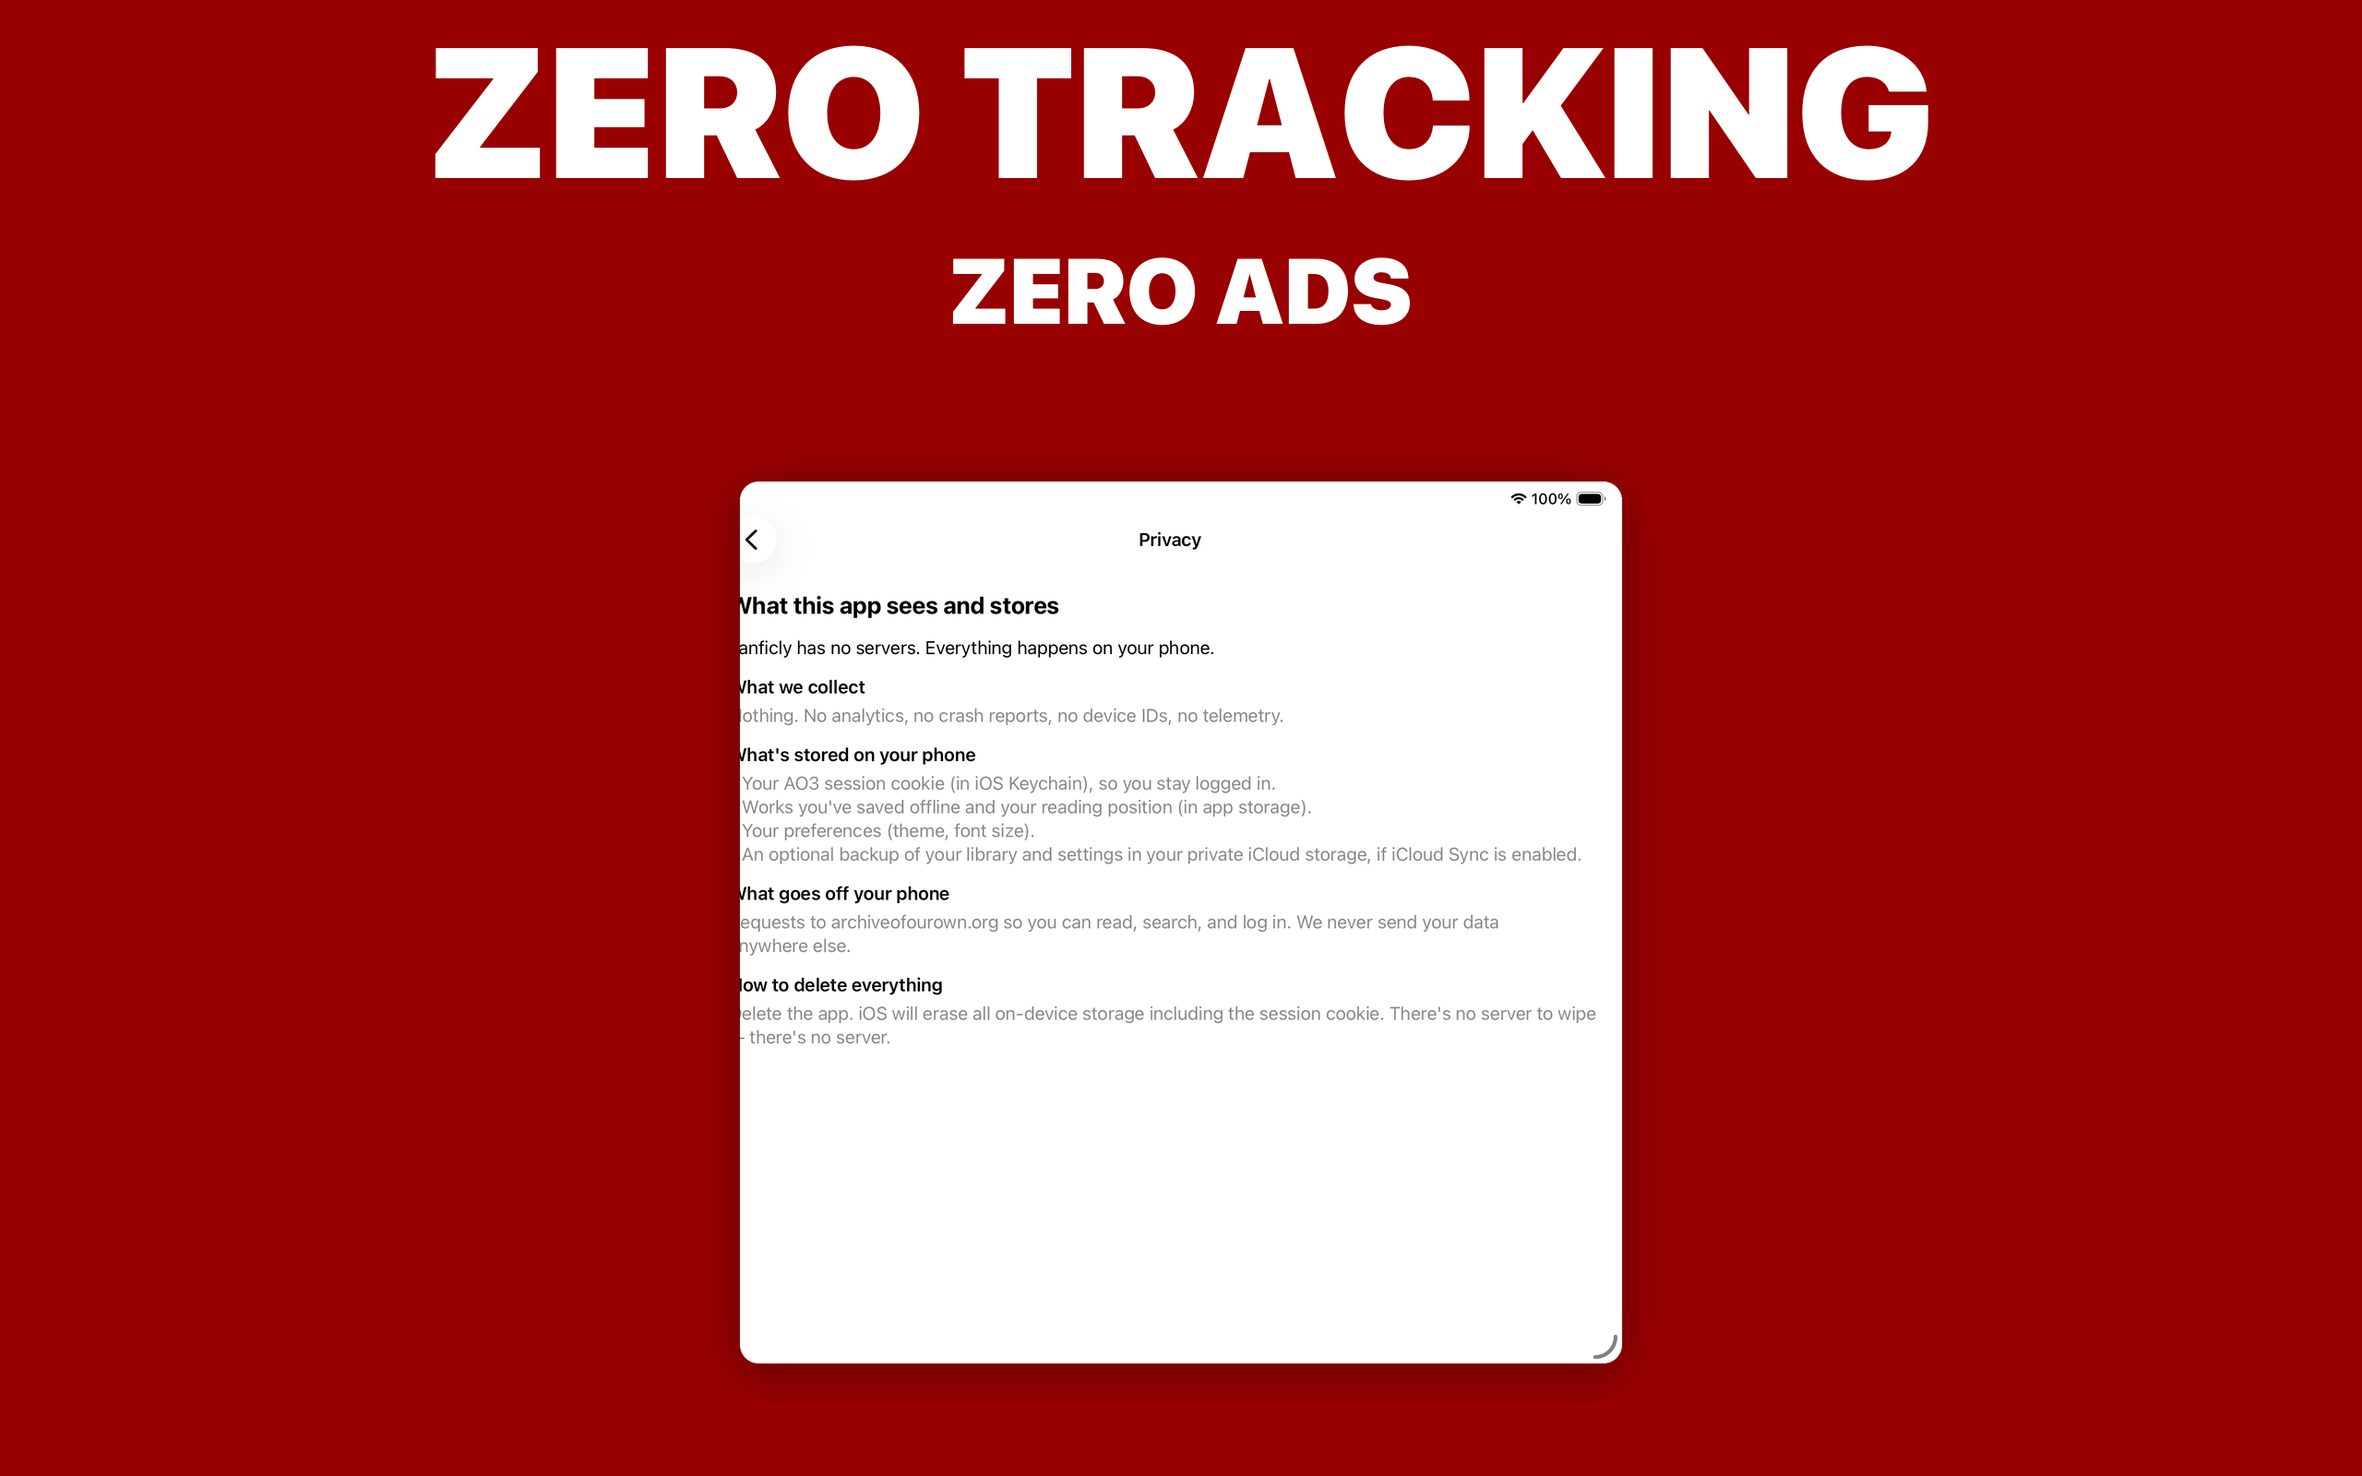
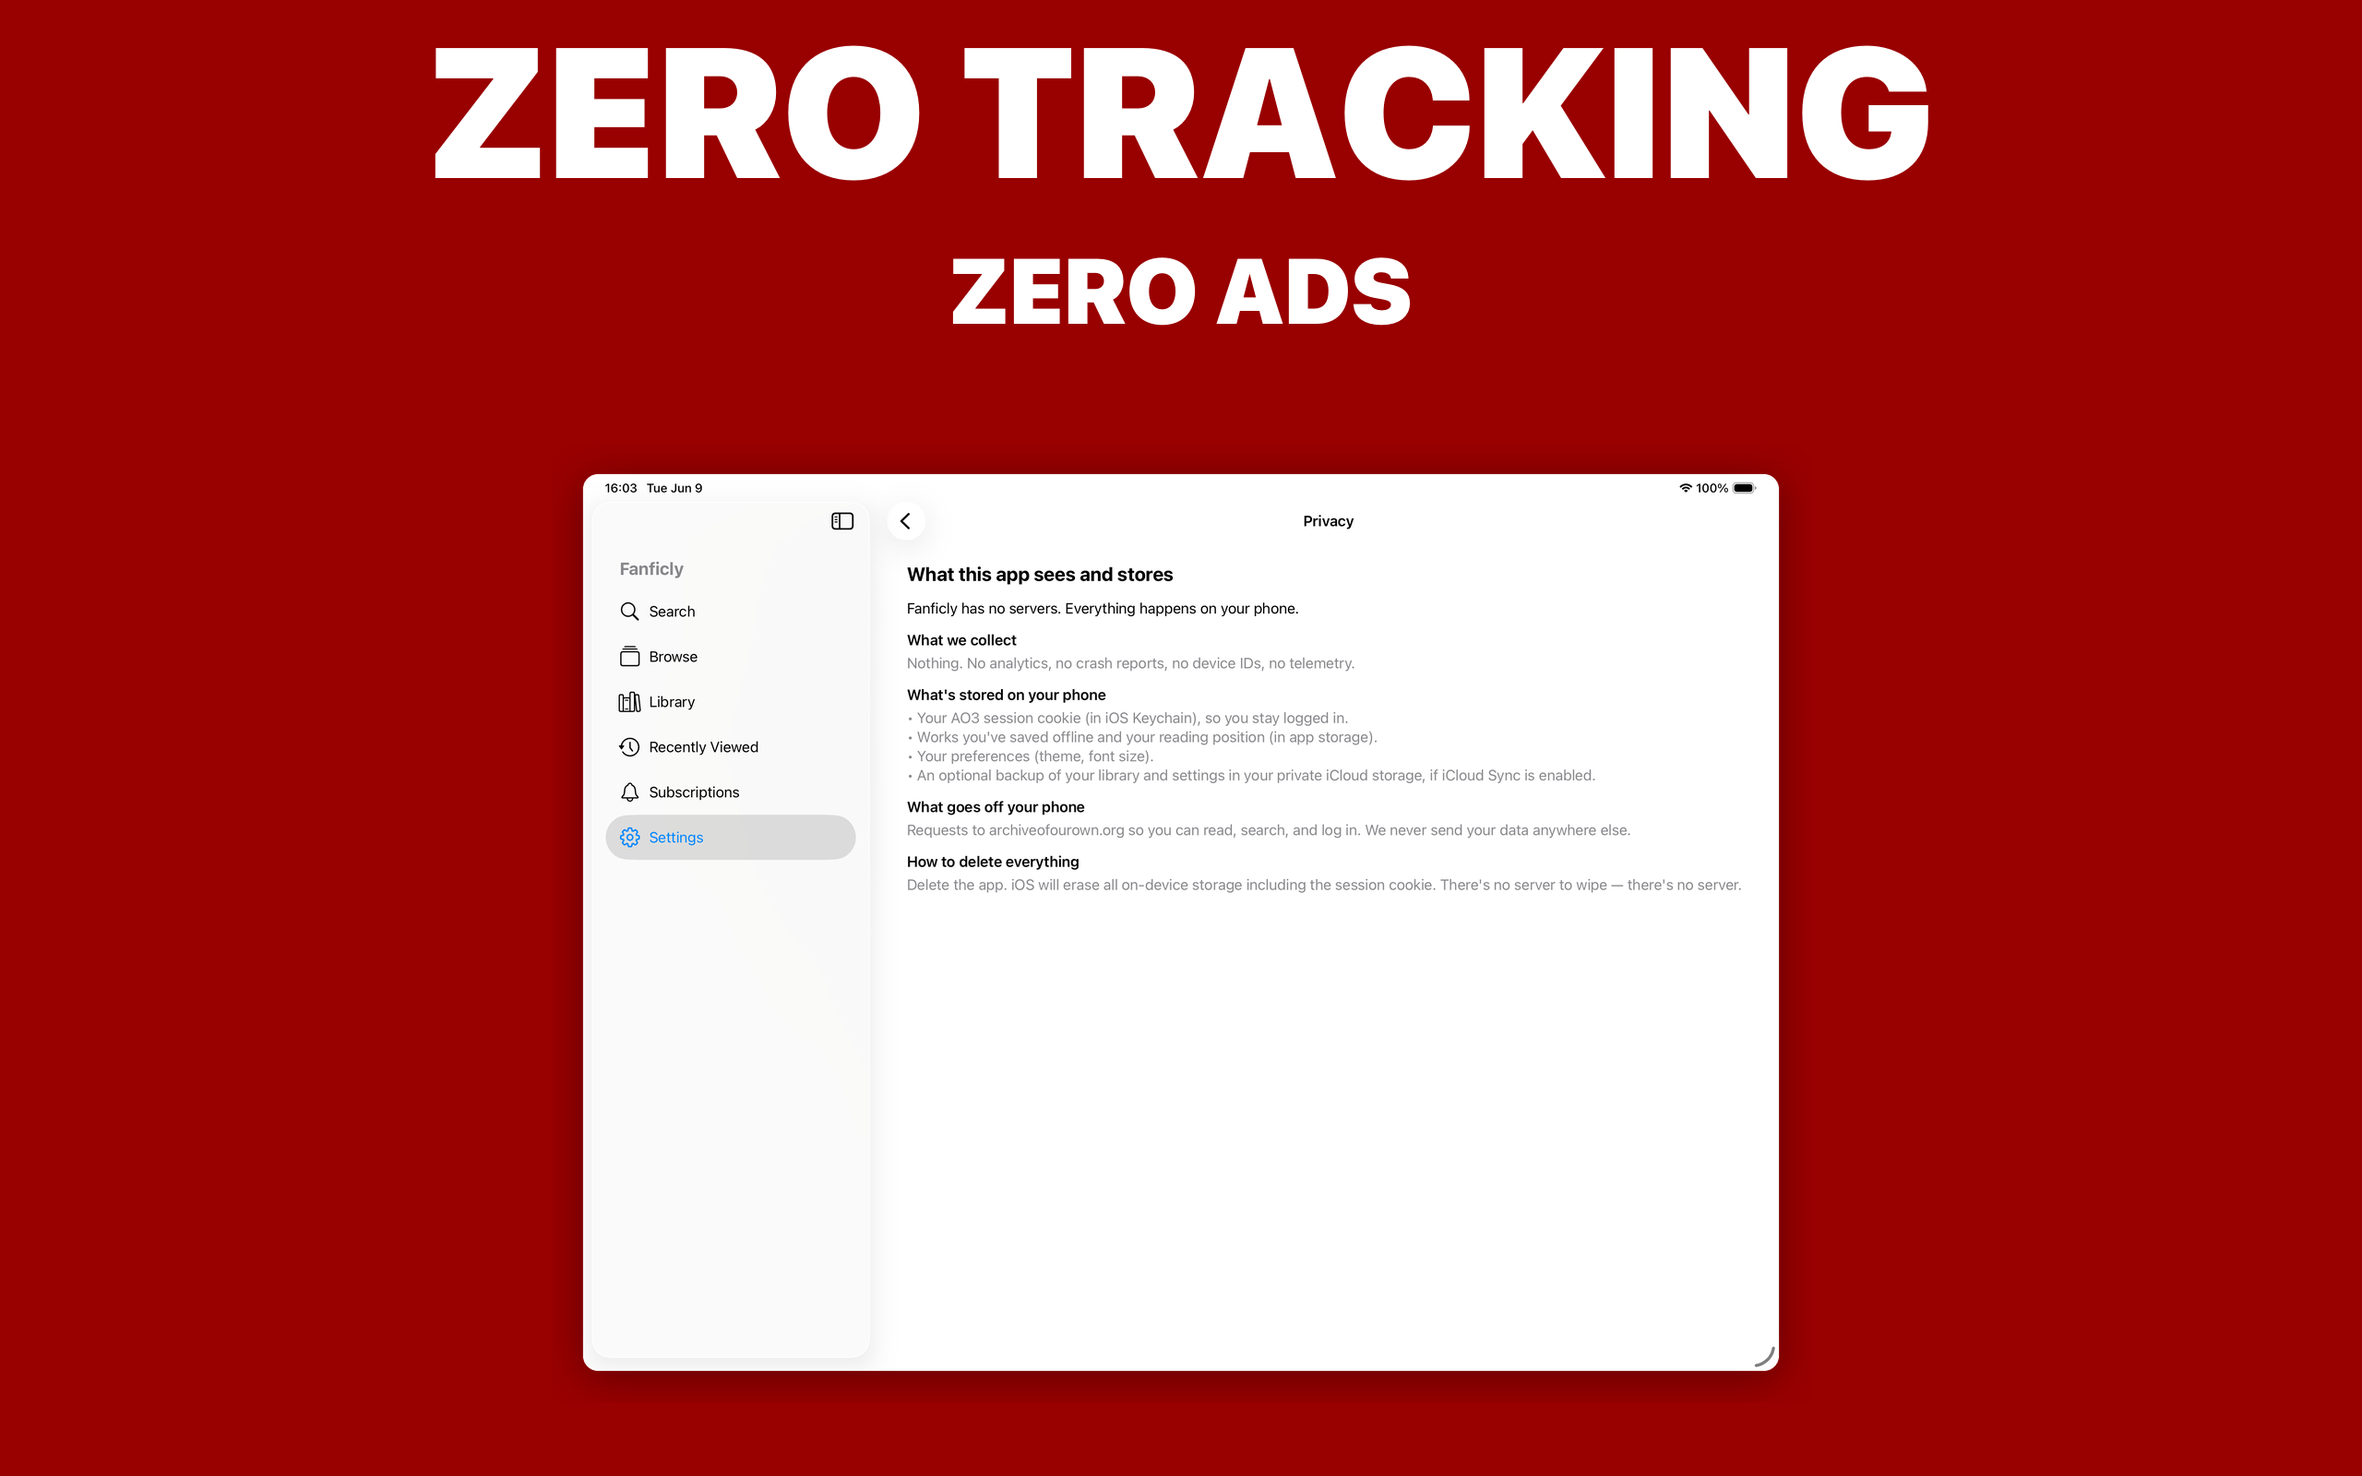
Capture Mac screenshots headlessly on the iPad simulator
Mac Catalyst has no simulator (it only runs natively on the Mac), so the
"mac" marketing set is captured on a large iPad simulator in landscape —
the same contained way iPhone/iPad shots are taken, with no automation on
the real desktop. New bin/take-mac-screenshots.sh runs the demo-mode
ScreenshotTests capture (light appearance) and writes straight into
docs/screenshots/mac/.

Landscape ("mac") capture is now reliable end-to-end:
- snap() captures the WINDOW element, which renders the app's own window
  regardless of focus/z-order — so every shot is Fanficly with the sidebar,
  not whatever window happened to be frontmost;
- navigation uses the app's ⌘1–6 shortcuts, resent until the target screen's
  content nav bar appears (the async keypress is otherwise dropped or raced,
  which captured the wrong screen);
- sidebar screens are captured before the reader, and the app is relaunched
  before the search/reader/TTS flow, because the landscape split view's
  detail column sticks to a pushed page;
- robust list-row taps + EXIF-aware loading (the sim stores landscape shots
  rotated with an orientation flag).

Demo mode now uses the standard system blue accent (cleaner for the App
Store); the shipped app keeps its maroon brand tint.

Regenerated docs/screenshots/mac raws + framed marketing set: landscape,
light, blue, full sidebar.

Changed region(s): [[0.2188, 0.3125, 0.7812, 0.9375]]

diff --git a/FanficlyUITests/ScreenshotTests.swift b/FanficlyUITests/ScreenshotTests.swift
@@ -13,9 +13,15 @@ import UIKit
 final class ScreenshotTests: XCTestCase {
     var app: XCUIApplication!
     var shotDir: String!
+    /// Landscape split view (the "mac" capture) navigates by ⌘1–6 keyboard
+    /// shortcuts instead of tapping sidebar rows, which doesn't reliably switch
+    /// the detail column there. Portrait (iPhone/iPad) keeps tapping.
+    private var useKeyboardNav = false
 
     override func setUpWithError() throws {
-        continueAfterFailure = false
+        // Best-effort capture: a single flaky navigation step on Mac Catalyst
+        // shouldn't abort the whole run and lose every later screen.
+        continueAfterFailure = true
         app = XCUIApplication()
         app.launchArguments = ["-demoMode"]
     }
@@ -39,11 +45,17 @@ final class ScreenshotTests: XCTestCase {
         // what produced the broken (portrait, sidebar-less) "mac" captures. Rotating
         // the live app reliably relayouts the split view so the sidebar shows in
         // landscape.
+        //
+        // Mac Catalyst has no device orientation — setting XCUIDevice.orientation
+        // there throws NSInternalInconsistencyException ("Unsupported code path").
+        // The Catalyst window is already landscape, so skip rotation entirely.
+        #if !targetEnvironment(macCatalyst)
         if orientation != .portrait {
             XCUIDevice.shared.orientation = orientation
             let rotExp = XCTestExpectation(description: "Wait for rotation")
             _ = XCTWaiter.wait(for: [rotExp], timeout: 3.0)
         }
+        #endif
 
         // Wait non-blockingly for the app to settle into the final layout.
         let exp = XCTestExpectation(description: "Wait for layout")
@@ -51,7 +63,15 @@ final class ScreenshotTests: XCTestCase {
     }
 
     private func snap(_ name: String) {
-        let shot = app.screenshot()
+        // app.screenshot() does a full-screen grab on Mac Catalyst, so it
+        // captures whatever window is frontmost (e.g. another app) instead of
+        // Fanficly. Capturing the WINDOW element renders the app's own window
+        // from its layer — independent of focus or z-order — so we always get
+        // Fanficly, cropped to its window (incl. the Mac title bar). Calling
+        // app.activate() here is NOT needed and actually destabilises the app
+        // reference ("cannot request screenshot data because it does not exist").
+        let window = app.windows.firstMatch
+        let shot = window.exists ? window.screenshot() : app.screenshot()
         let path = (shotDir as NSString).appendingPathComponent("\(name).png")
         do {
             try shot.pngRepresentation.write(to: URL(fileURLWithPath: path))
@@ -73,6 +93,25 @@ final class ScreenshotTests: XCTestCase {
     }
 
     private func openSidebarItem(_ title: String) {
+        // Landscape split view: tapping a sidebar row often doesn't switch the
+        // detail column. The app registers ⌘1–6 (the "Go" menu) for the sidebar
+        // items, so drive navigation by keyboard, which switches the selected
+        // tab deterministically.
+        if useKeyboardNav,
+           let key = ["Search": "1", "Browse": "2", "Library": "3",
+                      "Recently Viewed": "4", "Subscriptions": "5", "Settings": "6"][title] {
+            // The ⌘ keypress dispatches asynchronously and the first one after
+            // launch is often dropped, so RESEND until the target screen's content
+            // nav bar actually appears (the sidebar nav bar is "Fanficly"; each
+            // screen's content column carries its own title). This both confirms
+            // navigation happened and synchronises before we capture.
+            for _ in 0..<6 {
+                app.typeKey(key, modifierFlags: .command)
+                if app.navigationBars[title].waitForExistence(timeout: 2.5) { break }
+            }
+            usleep(700_000)
+            return
+        }
         revealSidebar()
         let cell = app.collectionViews.staticTexts[title].firstMatch
         let fallback = app.staticTexts[title].firstMatch
@@ -88,6 +127,26 @@ final class ScreenshotTests: XCTestCase {
             }
             usleep(800_000)
         }
+    }
+
+    /// Tap a list/detail row by its label. In the iPad landscape split view a
+    /// Form/List row is exposed as a button or cell rather than a bare static
+    /// text (which is why it taps in portrait but not landscape), so try each
+    /// element type, with a coordinate fallback for present-but-not-hittable.
+    @discardableResult
+    private func tapRow(_ label: String, timeout: TimeInterval = 6) -> Bool {
+        let deadline = Date().addingTimeInterval(timeout)
+        while Date() < deadline {
+            for el in [app.staticTexts[label], app.buttons[label], app.cells.staticTexts[label]] {
+                if el.exists {
+                    if el.isHittable { el.tap() }
+                    else { el.coordinate(withNormalizedOffset: CGVector(dx: 0.5, dy: 0.5)).tap() }
+                    return true
+                }
+            }
+            usleep(300_000)
+        }
+        return false
     }
     private func findSettingsButton() -> XCUIElement {
         let identifier = app.descendants(matching: .any).element(matching: .any, identifier: "reader_settings_button")
@@ -127,6 +186,7 @@ final class ScreenshotTests: XCTestCase {
     func testCaptureMacScreens() throws {
         // We capture landscape screenshots on iPad (or Mac Catalyst) for "mac"
         guard UIDevice.current.userInterfaceIdiom == .pad || UIDevice.current.userInterfaceIdiom == .mac else { return }
+        useKeyboardNav = true
         try setupAndLaunch(device: "mac", orientation: .landscapeRight)
         try runCaptureFlow()
     }
@@ -135,10 +195,76 @@ final class ScreenshotTests: XCTestCase {
         usleep(900_000)
         snap("01-home")
 
+        // Library — seeded with followed + downloaded works.
+        openSidebarItem("Library")
+        usleep(700_000)
+        snap("04-library")
+
+        // Browse — category catalog.
+        openSidebarItem("Browse")
+        usleep(700_000)
+        snap("05-browse")
+
+        // Fandoms list within a category (TV Shows)
+        if tapRow("TV Shows") {
+            usleep(900_000)
+            snap("05-browse-fandoms")
+            
+            // Pop back to Browse so that the rest of the flow is clean
+            let browseBack = app.navigationBars.buttons.element(boundBy: 0)
+            if browseBack.exists && browseBack.isHittable { browseBack.tap(); usleep(600_000) }
+        }
+
+        // Recently Viewed — seeded history.
+        openSidebarItem("Recently Viewed")
+        usleep(700_000)
+        snap("06-recently-viewed")
+
+        // Reader settings — themes & typography (the customization story).
+        openSidebarItem("Settings")
+        usleep(500_000)
+        if tapRow("Theme & typography") {
+            usleep(800_000)
+            snap("07-reader-settings")
+        }
+
+        // Privacy — "what this app sees and stores" (the zero-tracking story).
+        // We're in Theme & typography (pushed from Settings). Pop back ONE level
+        // to the Settings root, then open the privacy page. On iPad's split view
+        // re-selecting the Settings sidebar item won't pop the detail stack, so
+        // navigate via the back button instead of openSidebarItem.
+        let settingsBack = app.navigationBars.buttons.element(boundBy: 0)
+        if settingsBack.exists && settingsBack.isHittable { settingsBack.tap(); usleep(700_000) }
+        if tapRow("What this app sees and stores") {
+            usleep(800_000)
+            snap("08-privacy")
+        }
+
+        // The sidebar walk leaves a pushed detail the landscape split view won't
+        // clear, which blocks the search field. Relaunch for a clean root.
+        // (useKeyboardNav == the landscape "mac" capture; portrait is unaffected.)
+        if useKeyboardNav {
+            app.launch()
+            #if !targetEnvironment(macCatalyst)
+            XCUIDevice.shared.orientation = .landscapeRight
+            #endif
+            let relaunchSettle = XCTestExpectation(description: "relaunch settle")
+            _ = XCTWaiter.wait(for: [relaunchSettle], timeout: 3.0)
+        }
+
+        // Search + reader + TTS run LAST: in the landscape split view the
+        // reader sticks in the detail column, so opening it earlier would
+        // bleed into every screen captured after it.
         // Search — type a prompt; demo data returns results instantly (offline).
         openSidebarItem("Search")
         usleep(500_000)
-        let field = app.textFields.firstMatch
+        // The smart-search field is a vertical-axis TextField; Mac Catalyst
+        // exposes it as a text view rather than a text field, so fall back.
+        var field = app.textFields.firstMatch
+        if !field.waitForExistence(timeout: 3) {
+            if app.textViews.firstMatch.exists { field = app.textViews.firstMatch }
+            else if app.searchFields.firstMatch.exists { field = app.searchFields.firstMatch }
+        }
         if field.waitForExistence(timeout: 3) {
             field.tap()
             usleep(300_000)
@@ -204,57 +330,6 @@ final class ScreenshotTests: XCTestCase {
                     }
                 }
             }
-        }
-
-        // Library — seeded with followed + downloaded works.
-        openSidebarItem("Library")
-        usleep(700_000)
-        snap("04-library")
-
-        // Browse — category catalog.
-        openSidebarItem("Browse")
-        usleep(700_000)
-        snap("05-browse")
-
-        // Fandoms list within a category (TV Shows)
-        let tvShowsCell = app.staticTexts["TV Shows"].firstMatch
-        if tvShowsCell.waitForExistence(timeout: 3) {
-            tvShowsCell.tap()
-            usleep(900_000)
-            snap("05-browse-fandoms")
-            
-            // Pop back to Browse so that the rest of the flow is clean
-            let browseBack = app.navigationBars.buttons.element(boundBy: 0)
-            if browseBack.exists && browseBack.isHittable { browseBack.tap(); usleep(600_000) }
-        }
-
-        // Recently Viewed — seeded history.
-        openSidebarItem("Recently Viewed")
-        usleep(700_000)
-        snap("06-recently-viewed")
-
-        // Reader settings — themes & typography (the customization story).
-        openSidebarItem("Settings")
-        usleep(500_000)
-        let readerRow = app.staticTexts["Theme & typography"].firstMatch
-        if readerRow.waitForExistence(timeout: 3) {
-            readerRow.tap()
-            usleep(800_000)
-            snap("07-reader-settings")
-        }
-
-        // Privacy — "what this app sees and stores" (the zero-tracking story).
-        // We're in Theme & typography (pushed from Settings). Pop back ONE level
-        // to the Settings root, then open the privacy page. On iPad's split view
-        // re-selecting the Settings sidebar item won't pop the detail stack, so
-        // navigate via the back button instead of openSidebarItem.
-        let settingsBack = app.navigationBars.buttons.element(boundBy: 0)
-        if settingsBack.exists && settingsBack.isHittable { settingsBack.tap(); usleep(700_000) }
-        let privacyRow = app.staticTexts["What this app sees and stores"].firstMatch
-        if privacyRow.waitForExistence(timeout: 3) {
-            privacyRow.tap()
-            usleep(800_000)
-            snap("08-privacy")
         }
     }
 }

diff --git a/Fanficly/FanficlyApp.swift b/Fanficly/FanficlyApp.swift
@@ -71,6 +71,10 @@ struct FanficlyApp: App {
             RootView()
                 .environment(\.ao3Client, client)
                 .environment(auth)
+                // Screenshots use the standard system blue accent (cleaner for
+                // the App Store) rather than the app's maroon brand tint. Demo
+                // mode only — the shipped app keeps its maroon AccentColor.
+                .tint(Self.isDemoMode ? Color.blue : nil)
                 .task {
                     let iCloudEnabled = UserDefaults.standard.bool(forKey: "settings.iCloudSyncEnabled")
                     if iCloudEnabled && !Self.isDemoMode {
